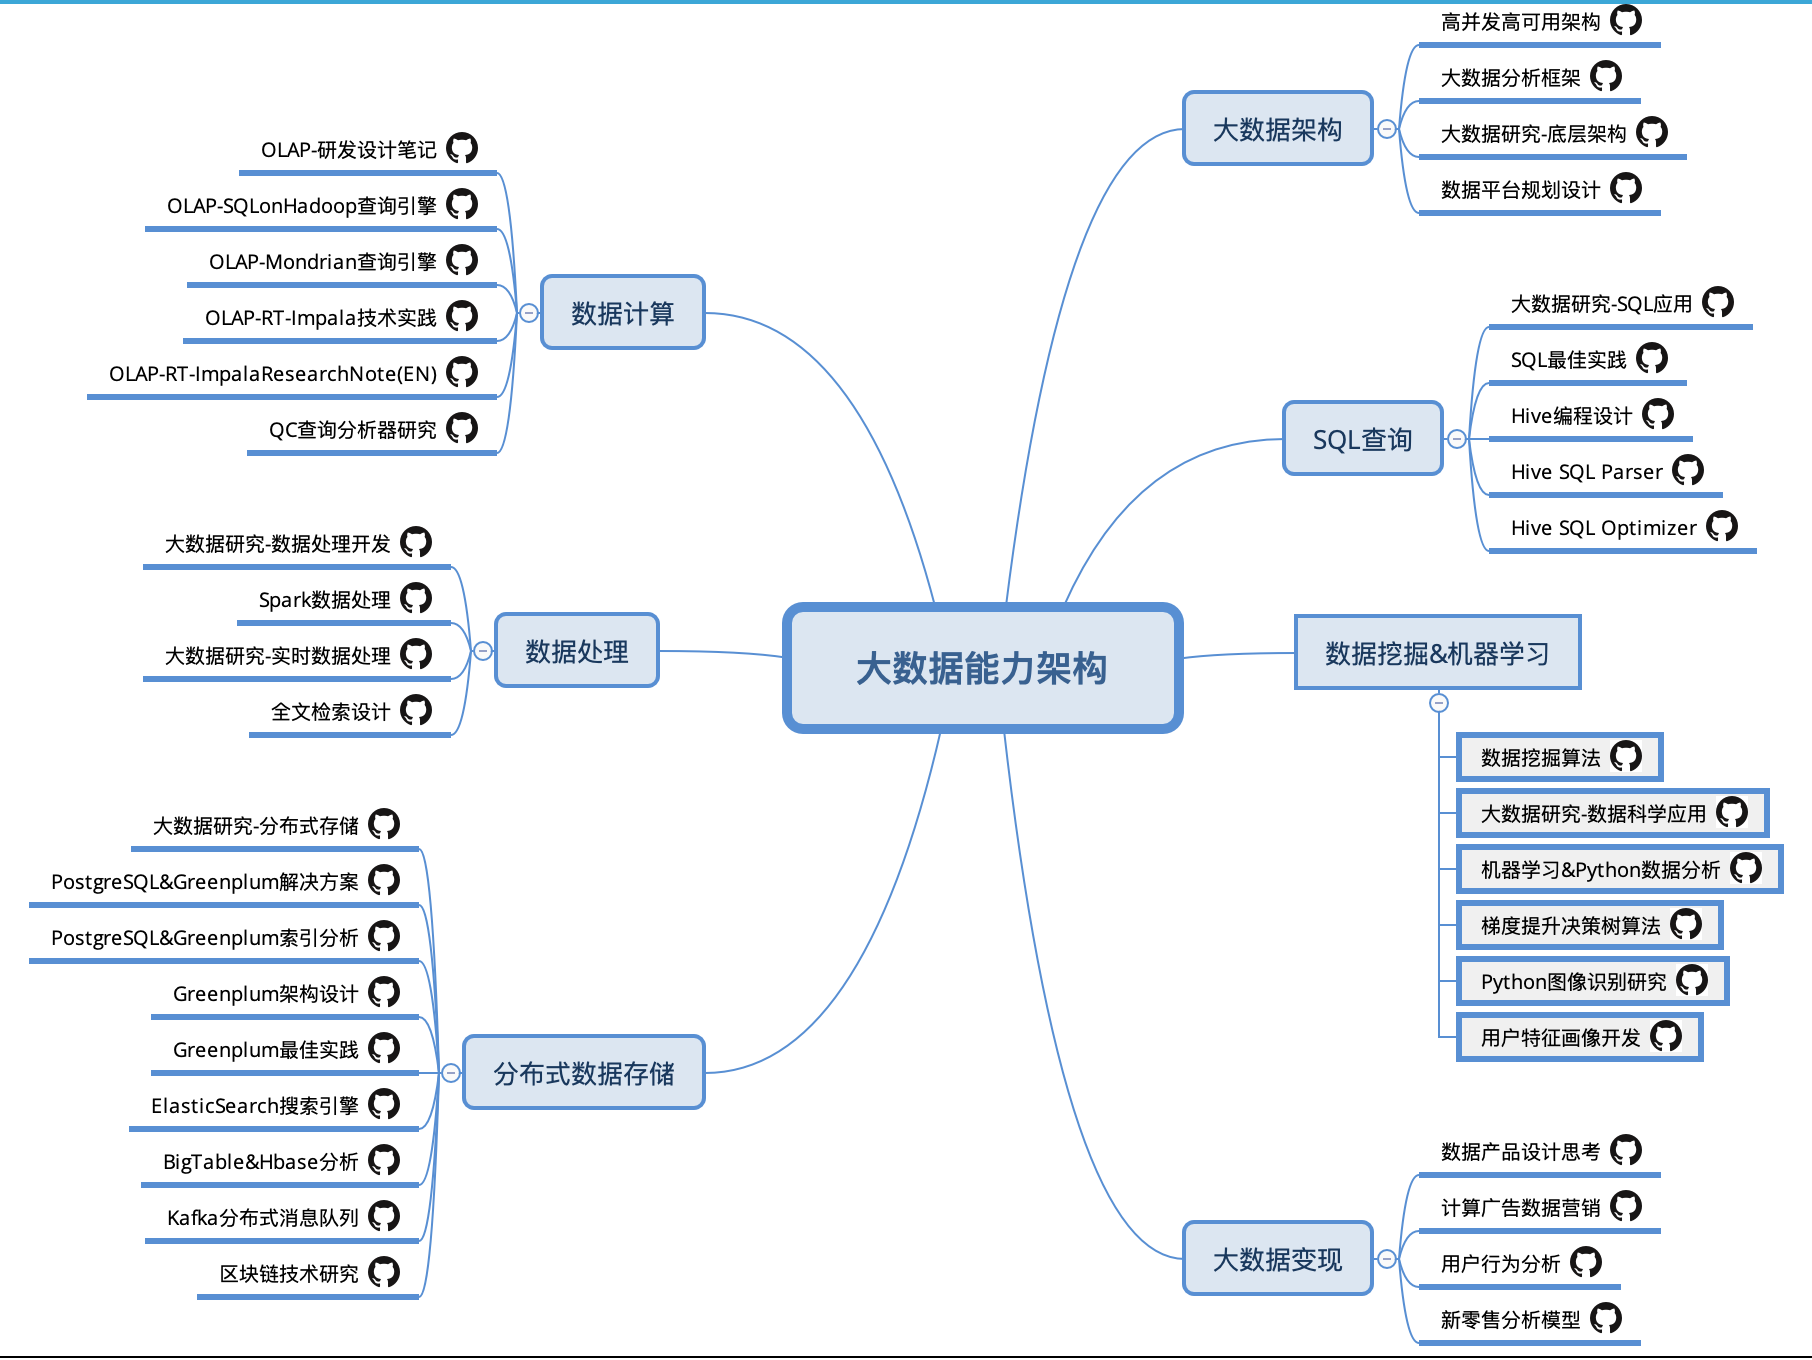
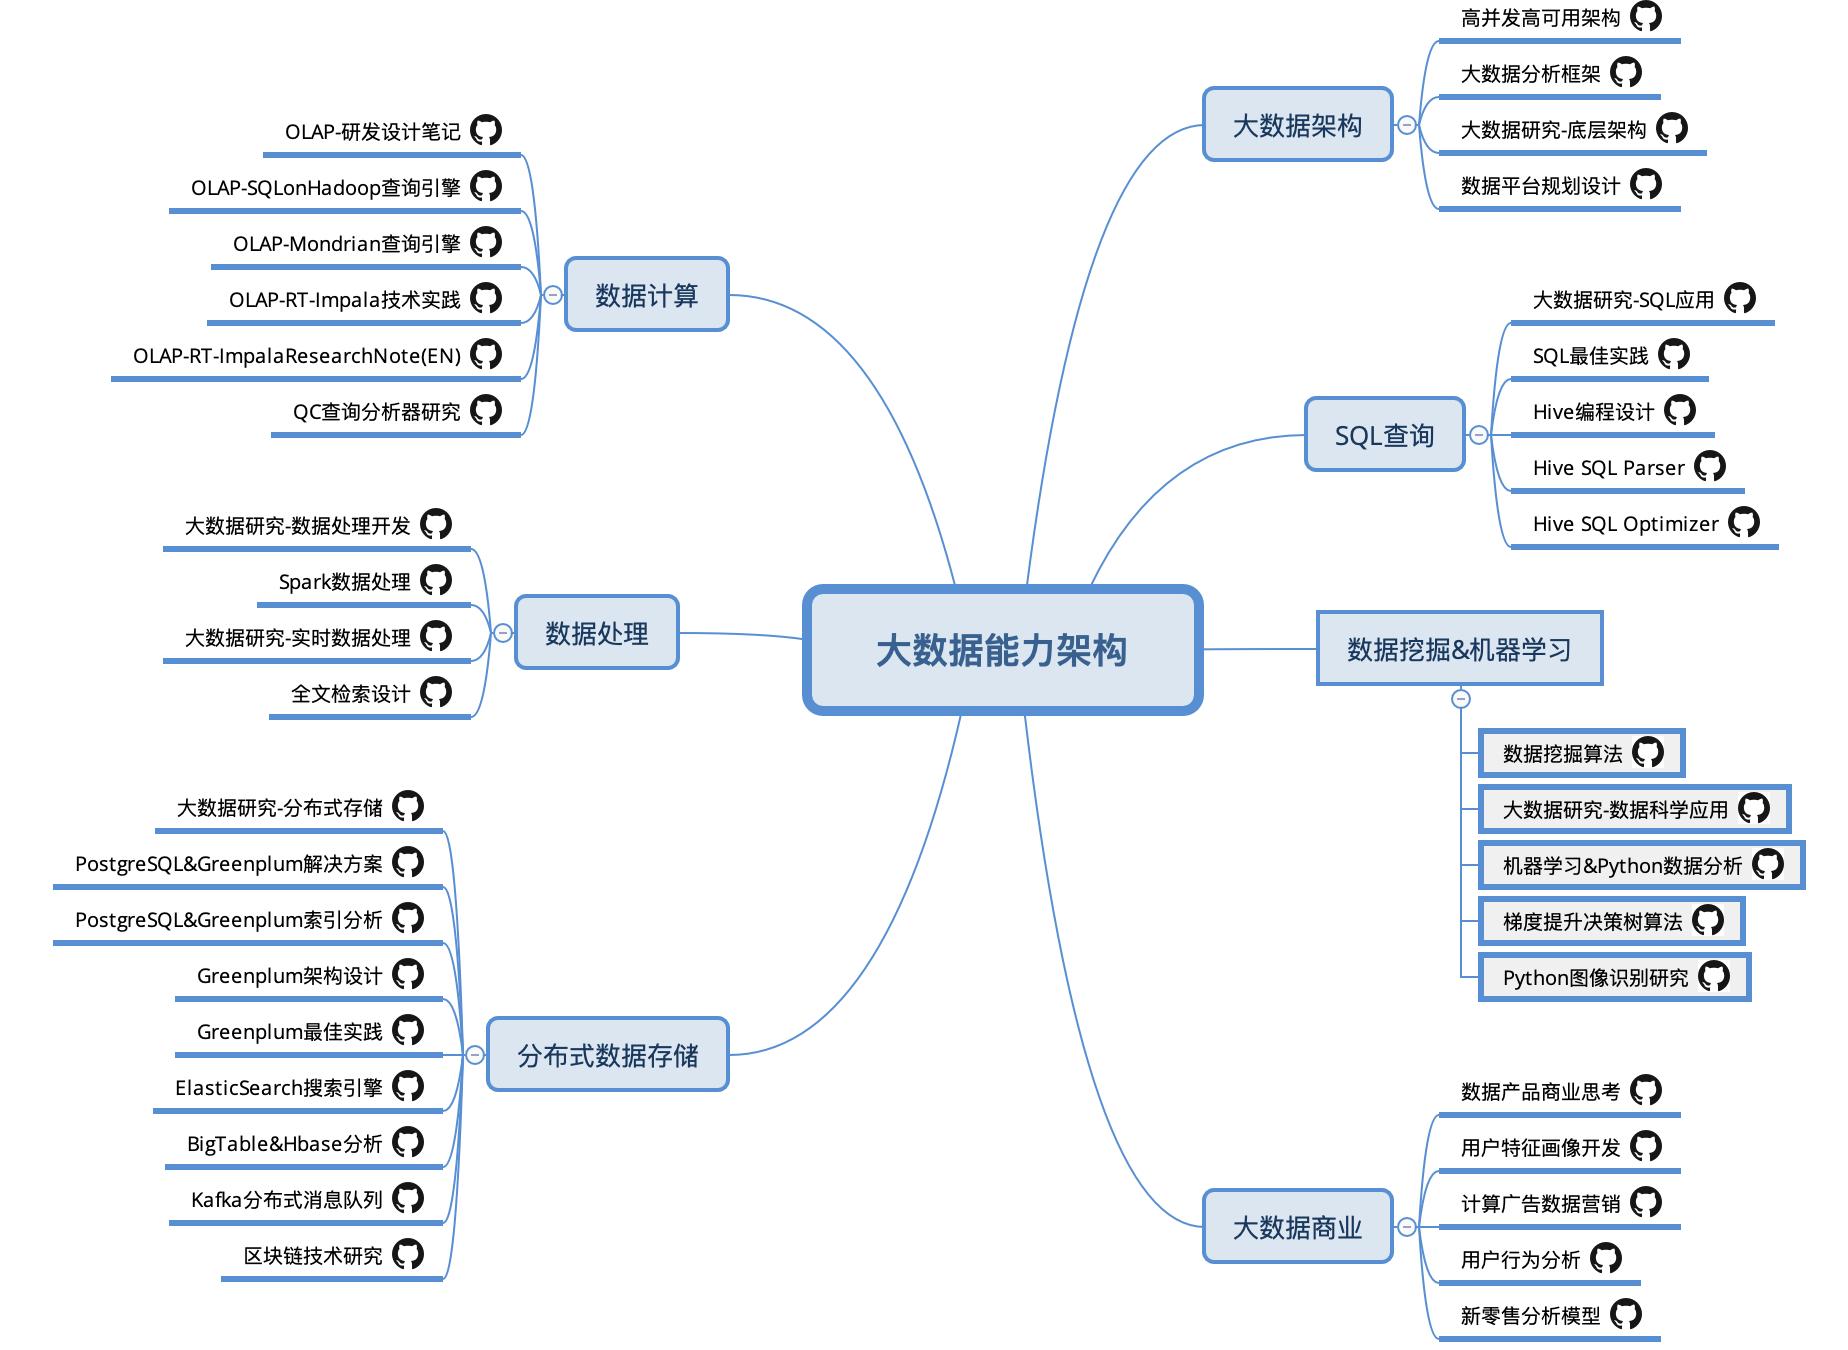
update post

diff --git a/README.md b/README.md
@@ -14,8 +14,10 @@ Currently he focuses on everything about big data included bi,olap,mpp,hadoop,so
 #### Big Data Everything
 
 <!-- - *[数据平台架构计划](https://github.com/terrytang0905/TT_Tech_Space/blob/resource/blogs/2018-08-18-data-platform-arch-planning-note.md)-->
-- *[数据产品商业思考](https://github.com/terrytang0905/TT_Tech_Space/blob/resource/blogs/2018-03-29-data-product-arch-design-note.md)
+- *[数据产品商业思考](https://github.com/terrytang0905/TT_Tech_Space/blob/resource/blogs/2018-03-29-data-product-business-design-note.md)
 - *[计算广告应用笔记](https://github.com/terrytang0905/TT_Tech_Space/blob/resource/blogs/2017-07-01-compute-adverting-bigdata-note.md)
+- *[用户标签画像开发](https://github.com/terrytang0905/TT_Tech_Space/blob/resource/blogs/2018-06-06-user-label-profile-note.md)
+- *[用户行为分析路径](https://github.com/terrytang0905/TT_Tech_Space/blob/resource/blogs/2017-09-30-user-behavior-analysis-note.md)
 - [数学与信息应用思考-TODO](https://github.com/terrytang0905/TT_Tech_Space/blob/resource/blogs/2017-05-10-information-mathmatic-thinking.md) 
 
 
@@ -26,8 +28,6 @@ Currently he focuses on everything about big data included bi,olap,mpp,hadoop,so
 - *[梯度提升算法研究](https://github.com/terrytang0905/TT_Tech_Space/blob/resource/blogs/2017-12-25-gbdt-ml-note.md)
 - *[Python机器学习&数据挖掘](https://github.com/terrytang0905/TT_Tech_Space/blob/resource/blogs/2017-10-16-python-ml-data-mining-note.md)
 - *[大数据研究-机器学习](https://github.com/terrytang0905/TT_Tech_Space/blob/resource/blogs/2017-07-28-bigdata-research-machine-learning.md)
-- *[用户特征画像开发](https://github.com/terrytang0905/TT_Tech_Space/blob/resource/blogs/2018-06-06-user-behavior-profile-note.md)
-- *[用户行为分析](https://github.com/terrytang0905/TT_Tech_Space/blob/resource/blogs/2017-09-30-user-behavior-analysis-note.md)
 - [数据挖掘算法研究](https://github.com/terrytang0905/TT_Tech_Space/blob/resource/blogs/2015-12-01-data-mining-algorithm-note.md)
 - *[大数据分析深度研究](https://github.com/terrytang0905/TT_Tech_Space/blob/resource/blogs/2015-11-08-bigdata-analysis-thinking.md)
 - [新零售分析模型设计](https://github.com/terrytang0905/TT_Tech_Space/blob/resource/blogs/2017-04-16-new-retail-anlysis-design-note.md)

diff --git a/blogs/2018-03-29-data-product-business-design-note.md b/blogs/2018-03-29-data-product-business-design-note.md
@@ -127,6 +127,8 @@ _1.数据赋能商业驱动_
 
 _大数据平台设计_
 
+[数据平台架构规划](2018-08-18-data-platform-arch-planning-note.md)
+
 _用户特征信息库_
 
 [用户标签画像设计](2018-06-06-user-behavior-profile-note.md)
